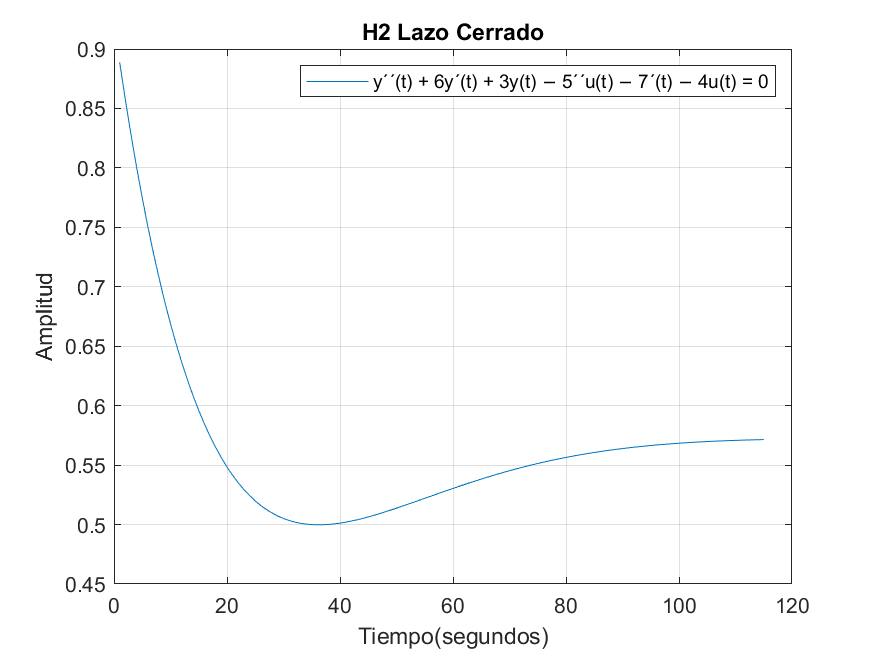
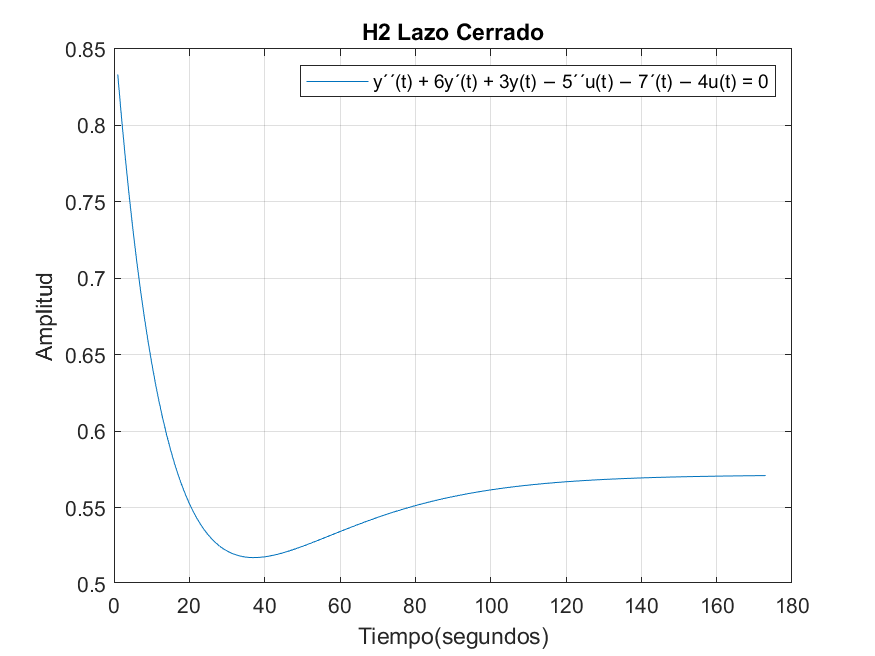
arreglo

diff --git a/lab2_parte1.m b/lab2_parte1.m
@@ -21,7 +21,7 @@ saveas(gcf,'H1 Lazo Abierto.png')
 % Lazo cerrado
 H1_cerrado = feedback(H1,1,-1);
 figure
-plot(step(H1_cerrado));
+step(H1_cerrado);
 title('H1 Lazo Cerrado');
 xlabel('Tiempo(segundos)');
 ylabel('Amplitud');
@@ -33,11 +33,11 @@ saveas(gcf,'H1 Lazo Cerrado.png')
 %%% Segunda funcion %%%
 
 %Definicion de la funcion
-H2 = (8*(s^2) + 7*s + 4)/((s^2) + 6*s + 3);
+H2 = (5*(s^2) + 7*s + 4)/((s^2) + 6*s + 3);
 
 % Lazo abierto 
 figure
-plot(step(H2));
+step(H2);
 title('H2 Lazo Abierto');
 xlabel('Tiempo(segundos)');
 ylabel('Amplitud');
